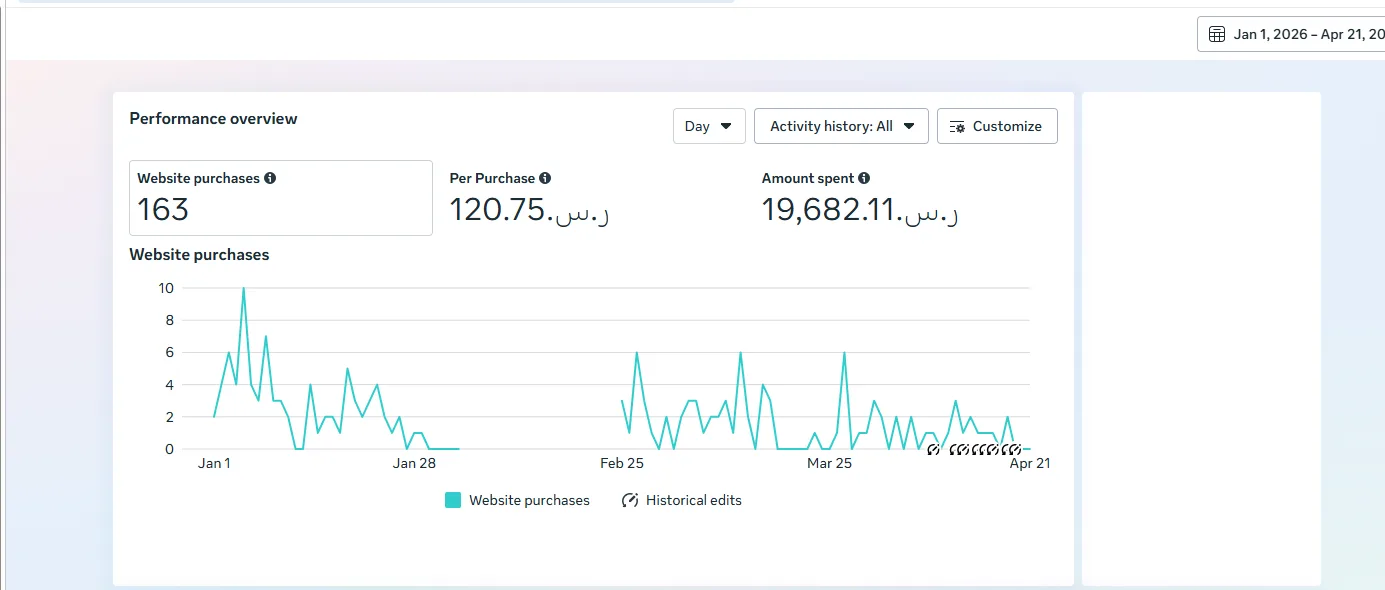
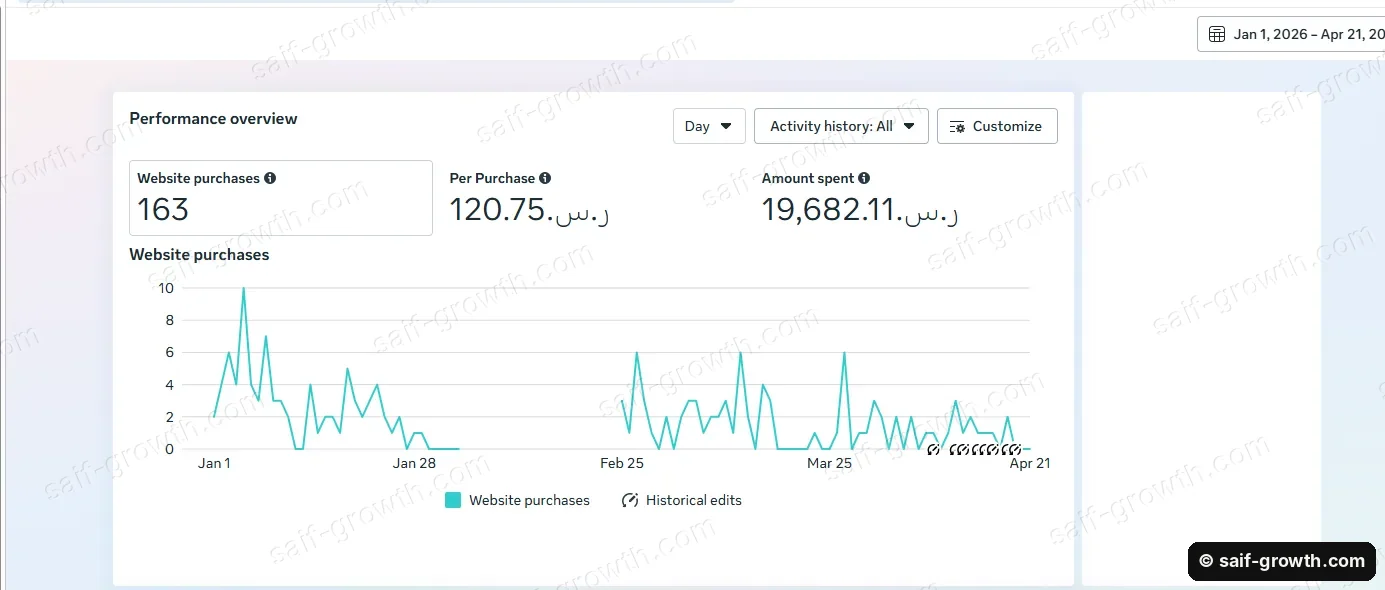
Watermark proof screenshots and block right-click/drag on them
Adds a faint tiled saif-growth.com watermark and a corner badge to every
proof image (redaction untouched), and disables drag, long-press and the
context menu on proof images, matching the existing portrait.

Claude-Session: https://claude.ai/code/session_01EZEqAsSeVCE54sZAtVH3sw

Changed region(s): [[0.8383, 0.9153, 0.9935, 1.0]]

diff --git a/src/editorial/Portfolio.jsx b/src/editorial/Portfolio.jsx
@@ -282,6 +282,8 @@ function ProofFigure({ proof, l }) {
       <a href={sitePath(proof.src)} target="_blank" rel="noreferrer">
         <img
           src={sitePath(proof.src)}
+          draggable={false}
+          onContextMenu={(event) => event.preventDefault()}
           width={proof.width}
           height={proof.height}
           loading="lazy"

diff --git a/src/editorial/style.css b/src/editorial/style.css
@@ -667,6 +667,9 @@ em {
   display: block;
   width: 100%;
   height: auto;
+  user-select: none;
+  -webkit-user-drag: none;
+  -webkit-touch-callout: none;
 }
 .proof-open {
   position: absolute;
